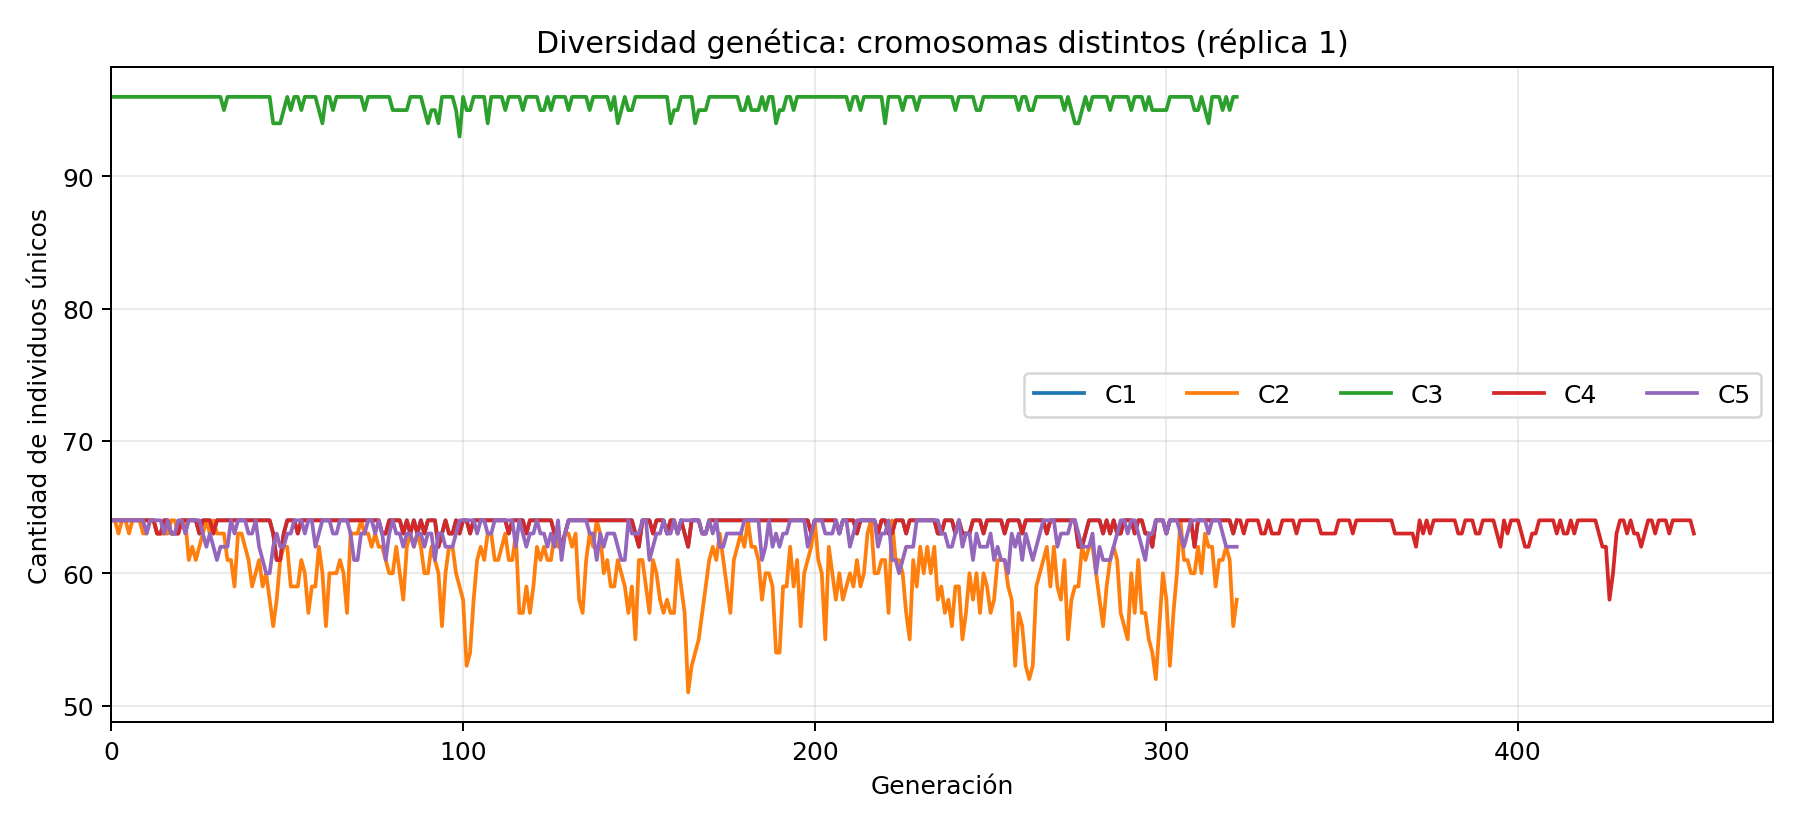
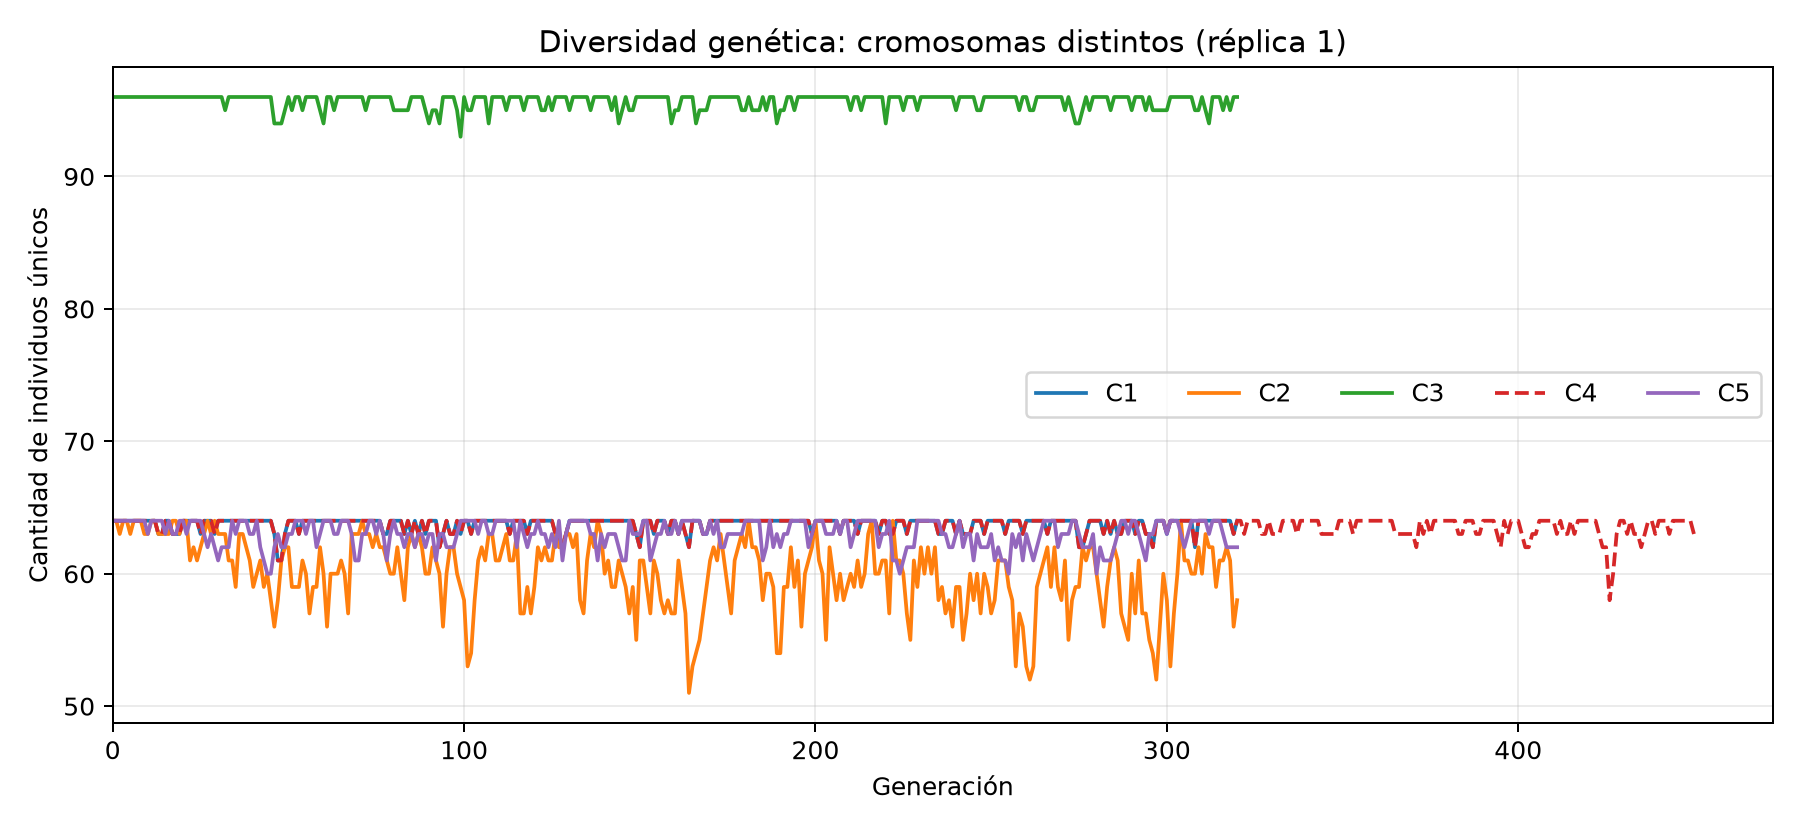
Gráficos con color fijo por configuración y mapa de holgura del mejor cronograma

diff --git a/codigo/regenerar_graficos.py b/codigo/regenerar_graficos.py
@@ -6,6 +6,10 @@ import matplotlib
 matplotlib.use('Agg')
 import matplotlib.pyplot as plt
 
+# Color fijo por configuración en todas las figuras; C4 punteada porque repite a C1 hasta la generación 320.
+COLOR={c:plt.get_cmap('tab10').colors[c-1] for c in range(1,6)}
+ESTILO={c:('--' if c==4 else '-') for c in range(1,6)}
+
 def build(R):
     with (R/'resultados/log_corridas.csv').open(encoding='utf-8-sig') as f:logs=list(csv.DictReader(f))
     D=defaultdict(list)
@@ -21,19 +25,19 @@ def build(R):
     fig,ax=plt.subplots(figsize=(10,5.1))
     for cfg in range(1,6):
         hist=D[cfg,1]
-        ax.step([int(x['generacion']) for x in hist],[int(x['P_mejor']) for x in hist],where='post',label=f'Configuración {cfg}')
+        ax.step([int(x['generacion']) for x in hist],[int(x['P_mejor']) for x in hist],where='post',label=f'Configuración {cfg}',color=COLOR[cfg],linestyle=ESTILO[cfg])
     ax.set(title='Mejor penalización P a lo largo de las generaciones, misma semilla',xlabel='Generación real',ylabel='Penalización P de cobertura (menor es mejor)')
     ax.grid(alpha=.25);ax.legend(ncol=3);ax.set_xlim(left=0);fig.tight_layout();fig.savefig(R/'graficos'/'comparacion_configuraciones.png',dpi=180);plt.close(fig)
     fig,ax=plt.subplots(figsize=(10,4.6))
     for cfg in range(1,6):
         hist=D[cfg,1]
-        ax.plot([int(x['generacion']) for x in hist],[int(x['P_promedio_generacion']) for x in hist],label=f'C{cfg}')
+        ax.plot([int(x['generacion']) for x in hist],[int(x['P_promedio_generacion']) for x in hist],label=f'C{cfg}',color=COLOR[cfg],linestyle=ESTILO[cfg])
     ax.set(title='Penalización promedio de la población a lo largo de la evolución',xlabel='Generación',ylabel='P medio de la generación')
     ax.grid(alpha=.25);ax.legend(ncol=5);ax.set_xlim(left=0);fig.tight_layout();fig.savefig(R/'graficos'/'penalizacion_poblacion.png',dpi=180);plt.close(fig)
     fig,ax=plt.subplots(figsize=(10,4.6))
     for cfg in range(1,6):
         hist=D[cfg,1]
-        ax.plot([int(x['generacion']) for x in hist],[int(x['individuos_distintos']) for x in hist],label=f'C{cfg}')
+        ax.plot([int(x['generacion']) for x in hist],[int(x['individuos_distintos']) for x in hist],label=f'C{cfg}',color=COLOR[cfg],linestyle=ESTILO[cfg])
     ax.set(title='Diversidad genética: cromosomas distintos (réplica 1)',xlabel='Generación',ylabel='Cantidad de individuos únicos')
     ax.grid(alpha=.25);ax.legend(ncol=5);ax.set_xlim(left=0);fig.tight_layout();fig.savefig(R/'graficos'/'diversidad_poblacion.png',dpi=180);plt.close(fig)
     fig,ax=plt.subplots(figsize=(10,4.6))
@@ -43,11 +47,22 @@ def build(R):
         if feasible:
             ax.step([int(x['generacion']) for x in feasible],
                     [int(x['preferencias_mejor']) for x in feasible],
-                    where='post',label=f'C{cfg}')
+                    where='post',label=f'C{cfg}',color=COLOR[cfg],linestyle=ESTILO[cfg])
     ax.set(title='Evolución del costo Q desde la primera solución con cobertura completa',
            xlabel='Generación real',ylabel='Preferencias Q (menor es mejor)')
     ax.grid(alpha=.25);ax.legend();ax.set_xlim(left=0);fig.tight_layout()
     fig.savefig(R/'graficos'/'preferencias_desde_factibilidad.png',dpi=180);plt.close(fig)
+    # Holgura (disponibles - requeridos) del mejor cronograma por grupo y semana.
+    with (R/'resultados/cobertura_mejor_cronograma.csv').open(encoding='utf-8-sig') as f:cov=list(csv.DictReader(f))
+    grupos=list(dict.fromkeys(r['grupo'] for r in cov))
+    H=[[0]*52 for _ in grupos]
+    for r in cov:H[grupos.index(r['grupo'])][int(r['semana'])-1]=int(r['disponibles'])-int(r['requeridos'])
+    fig,ax=plt.subplots(figsize=(11,4.2))
+    im=ax.imshow(H,aspect='auto',cmap='Blues',vmin=0,extent=(0.5,52.5,len(grupos)-0.5,-0.5))
+    ax.set_yticks(range(len(grupos)));ax.set_yticklabels(grupos)
+    ax.set(title='Mejor cronograma: holgura semanal (disponibles − requeridos); 0 = cobertura justa, nunca negativa',xlabel='Semana')
+    fig.colorbar(im,ax=ax,label='Personas de holgura');fig.tight_layout()
+    fig.savefig(R/'graficos'/'holgura_mejor_cronograma.png',dpi=180);plt.close(fig)
     print('Gráficos corregidos en',R/'graficos')
 
 if __name__=="__main__":
